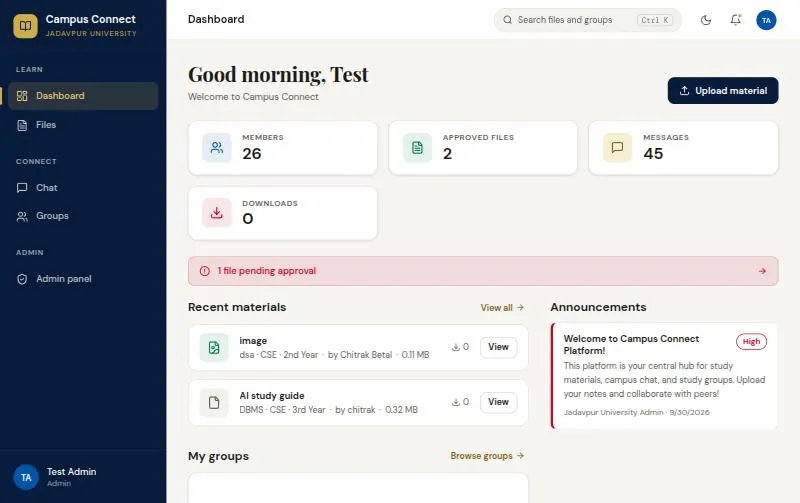
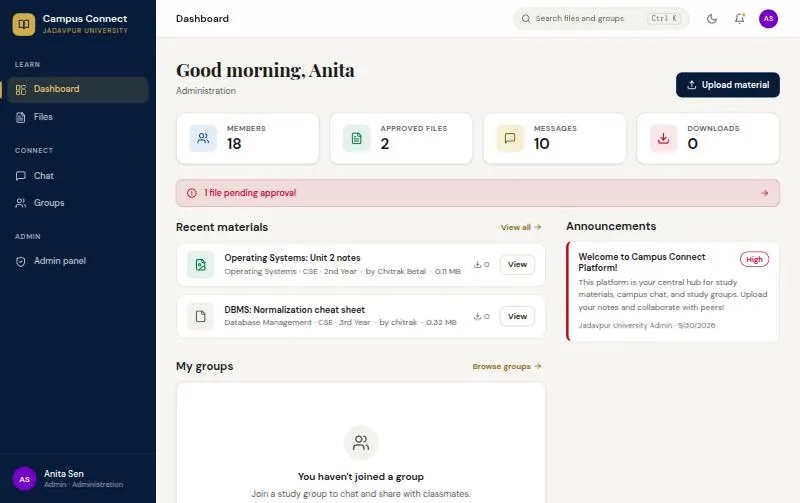
docs(plan): Phase 10 docs, lazy-CSS fix, network workarounds logged; new landing hero [10.1, 10.2]

diff --git a/IMPROVEMENT_PLAN.md b/IMPROVEMENT_PLAN.md
@@ -432,8 +432,8 @@ Order matters. Tick each step.
 
 ## Phase 10: Documentation
 
-- [ ] **10.1** Update `README.md`: features (new ones), live demo link (`https://campus-connect-five-zeta.vercel.app`), the env var table (§12), the architecture diagram (add Brevo, remove Gmail SMTP for prod), setup steps (Neon dev branch, `npm test`), and new screenshots of the redesigned pages (replace `README-assets/*.png`). Remove the "Future Improvements" items that are now done.
-- [ ] **10.2** Add `SECURITY.md` with a short summary of the protections (rate limits, OTP policy, role approval, upload validation) and how to report issues.
+- [x] **10.1** Update `README.md`: features (new ones), live demo link (`https://campus-connect-five-zeta.vercel.app`), the env var table (§12), the architecture diagram (add Brevo, remove Gmail SMTP for prod), setup steps (Neon dev branch, `npm test`), and new screenshots of the redesigned pages (replace `README-assets/*.png`). Remove the "Future Improvements" items that are now done.
+- [x] **10.2** Add `SECURITY.md` with a short summary of the protections (rate limits, OTP policy, role approval, upload validation) and how to report issues.
 - [ ] **10.3** Tick the remaining boxes in this file, and fill in §13 and the summary at the bottom.
 
 ---
@@ -526,9 +526,12 @@ Viewports: 375 px (phone), 768 px (tablet), 1280 px (laptop). Both themes.
 | 2026-11-20 | 8.2 | `npm run build` and `npm run lint` pass with no warnings in the frontend. |
 | 2026-11-20 | BUG FIXED: chat message order | Found in manual QA: two messages sent ~400 ms apart were stored in reverse order (each insert took its timestamp from the DB when it ran, and concurrent inserts finish out of order on different pool connections). Then a regression test showed the live broadcast order could also scramble. Fix: stamp each message when it ARRIVES (stored and broadcast value are the same), and process each socket's sends through a per-socket queue. Regression test added (19 tests passing). |
 | 2026-11-20 | 8.3 manual QA (§11) | Run in the real browser against Vite + the backend on Neon dev, 375/768/1280 px, light and dark (layout checks), with the owner's local Cloudinary. Verified: landing real stats; student + faculty registration (strength hint, OTP boxes with paste, resend countdown, 5 wrong codes then the correct code is refused with "Too many attempts"); login/wrong password with no reload; forgot password end to end; change password signs out the other session; a NEW TAB stays signed in and a logout in one tab signs out the other; dashboard (student/admin); Files (filters, search, sort, grid/list persisted across reload, upload with progress, image + PDF + Word preview, save/unsave, My uploads status, edit, delete + Cloudinary removal); Chat (global, unread badge clears on open, load older keeps scroll, delete own, linkify, 2000-char counter, Enter vs Shift+Enter, disconnect/reconnect chip); Groups (create public/private, invite code, join by code, remove member, rotate code, owner has no Leave, delete); Profile (bio, clear department, avatar); Admin (approve/reject with preview, role request approve, user search/filter/menu with self protections, announcements create/delete); keyboard (logical tab order, no positive tabindex, Esc closes dialogs, Ctrl+K palette); 404 page. Clipboard "Copy" could not be exercised because the headless pane document is unfocused (browser blocks it); the app shows a fallback toast in that case. Bugs found by QA and fixed: message ordering (see above). |
+| 2026-11-20 | 10.1 / 10.2 | README rewritten (features, live URL, Brevo instead of Gmail SMTP, architecture, setup with the Neon dev branch, `npm test`, full env table incl. `ENABLE_RATE_LIMIT`/`FORCE_IPV4`/`NEON_WS`, REST/socket summary, deployment) and `SECURITY.md` added. Screenshots retaken from tidy demo data on the dev branch (800 px wide: the browser pane's capture limit); the three obsolete images (upload, create_group, group) were removed. Landing hero now uses the new dashboard capture. |
+| 2026-11-20 | BUG FIXED: styles lost on lazy routes | Code-splitting (7.1) put shared classes (search box, file action buttons, preview frame, announcement cards, banners, password toggle, remove/danger buttons) inside one page's CSS chunk, so e.g. opening Groups first left its search box unstyled. A script comparing classes used per page against the CSS each route chunk loads found the gaps; all were moved to `components.css`. Verified by cold-loading Groups and Admin. |
+| 2026-11-20 | Local network blocks Postgres (5432) | Mid-session this machine's network began filtering the Postgres protocol: TCP connects but there is no handshake reply, for Neon prod, Neon dev AND an unrelated Supabase host; HTTPS is fine and Neon was healthy. Added opt-in workarounds, both OFF by default and local-only: `FORCE_IPV4=true` (IPv4-only DNS lookups, also fixed 15 s Cloudinary stalls) and `NEON_WS=true` (Neon serverless driver over WebSocket/443 via devDependencies `@neondatabase/serverless` + `ws`; same Pool API). Production uses plain `pg`. With NEON_WS the suite takes ~72 s instead of ~19 s, so the socket tests now poll with `waitFor` instead of fixed sleeps (19/19 pass). |
 | 2026-11-20 | 0.2/0.3 | Neon branches created: `dev` (br-polished-union-aoj9t0mv), `backup-pre-v2` (br-round-frost-ao8u3kmu, no compute). |
 
 ## Progress summary (update at the end of each phase)
 
 - Phase 0: ☑  Phase 1: ◐ (code done, browser verify pending)  Phase 2: ☑ (CSP untested on Vercel)  Phase 3: ◐ (3.13 waits on 5.2)  Phase 4: ◐ (4.2 production UPDATE waits for 9.5)  Phase 5: ☑
-- Phase 6: ☑ (F13-F15 stretch not started)  Phase 7: ☐  Phase 8: ☑  Phase 9: ☐  Phase 10: ☐
+- Phase 6: ☑ (F13-F15 stretch not started)  Phase 7: ☐  Phase 8: ☑  Phase 9: ☐  Phase 10: ◐ (10.3 at the end)
